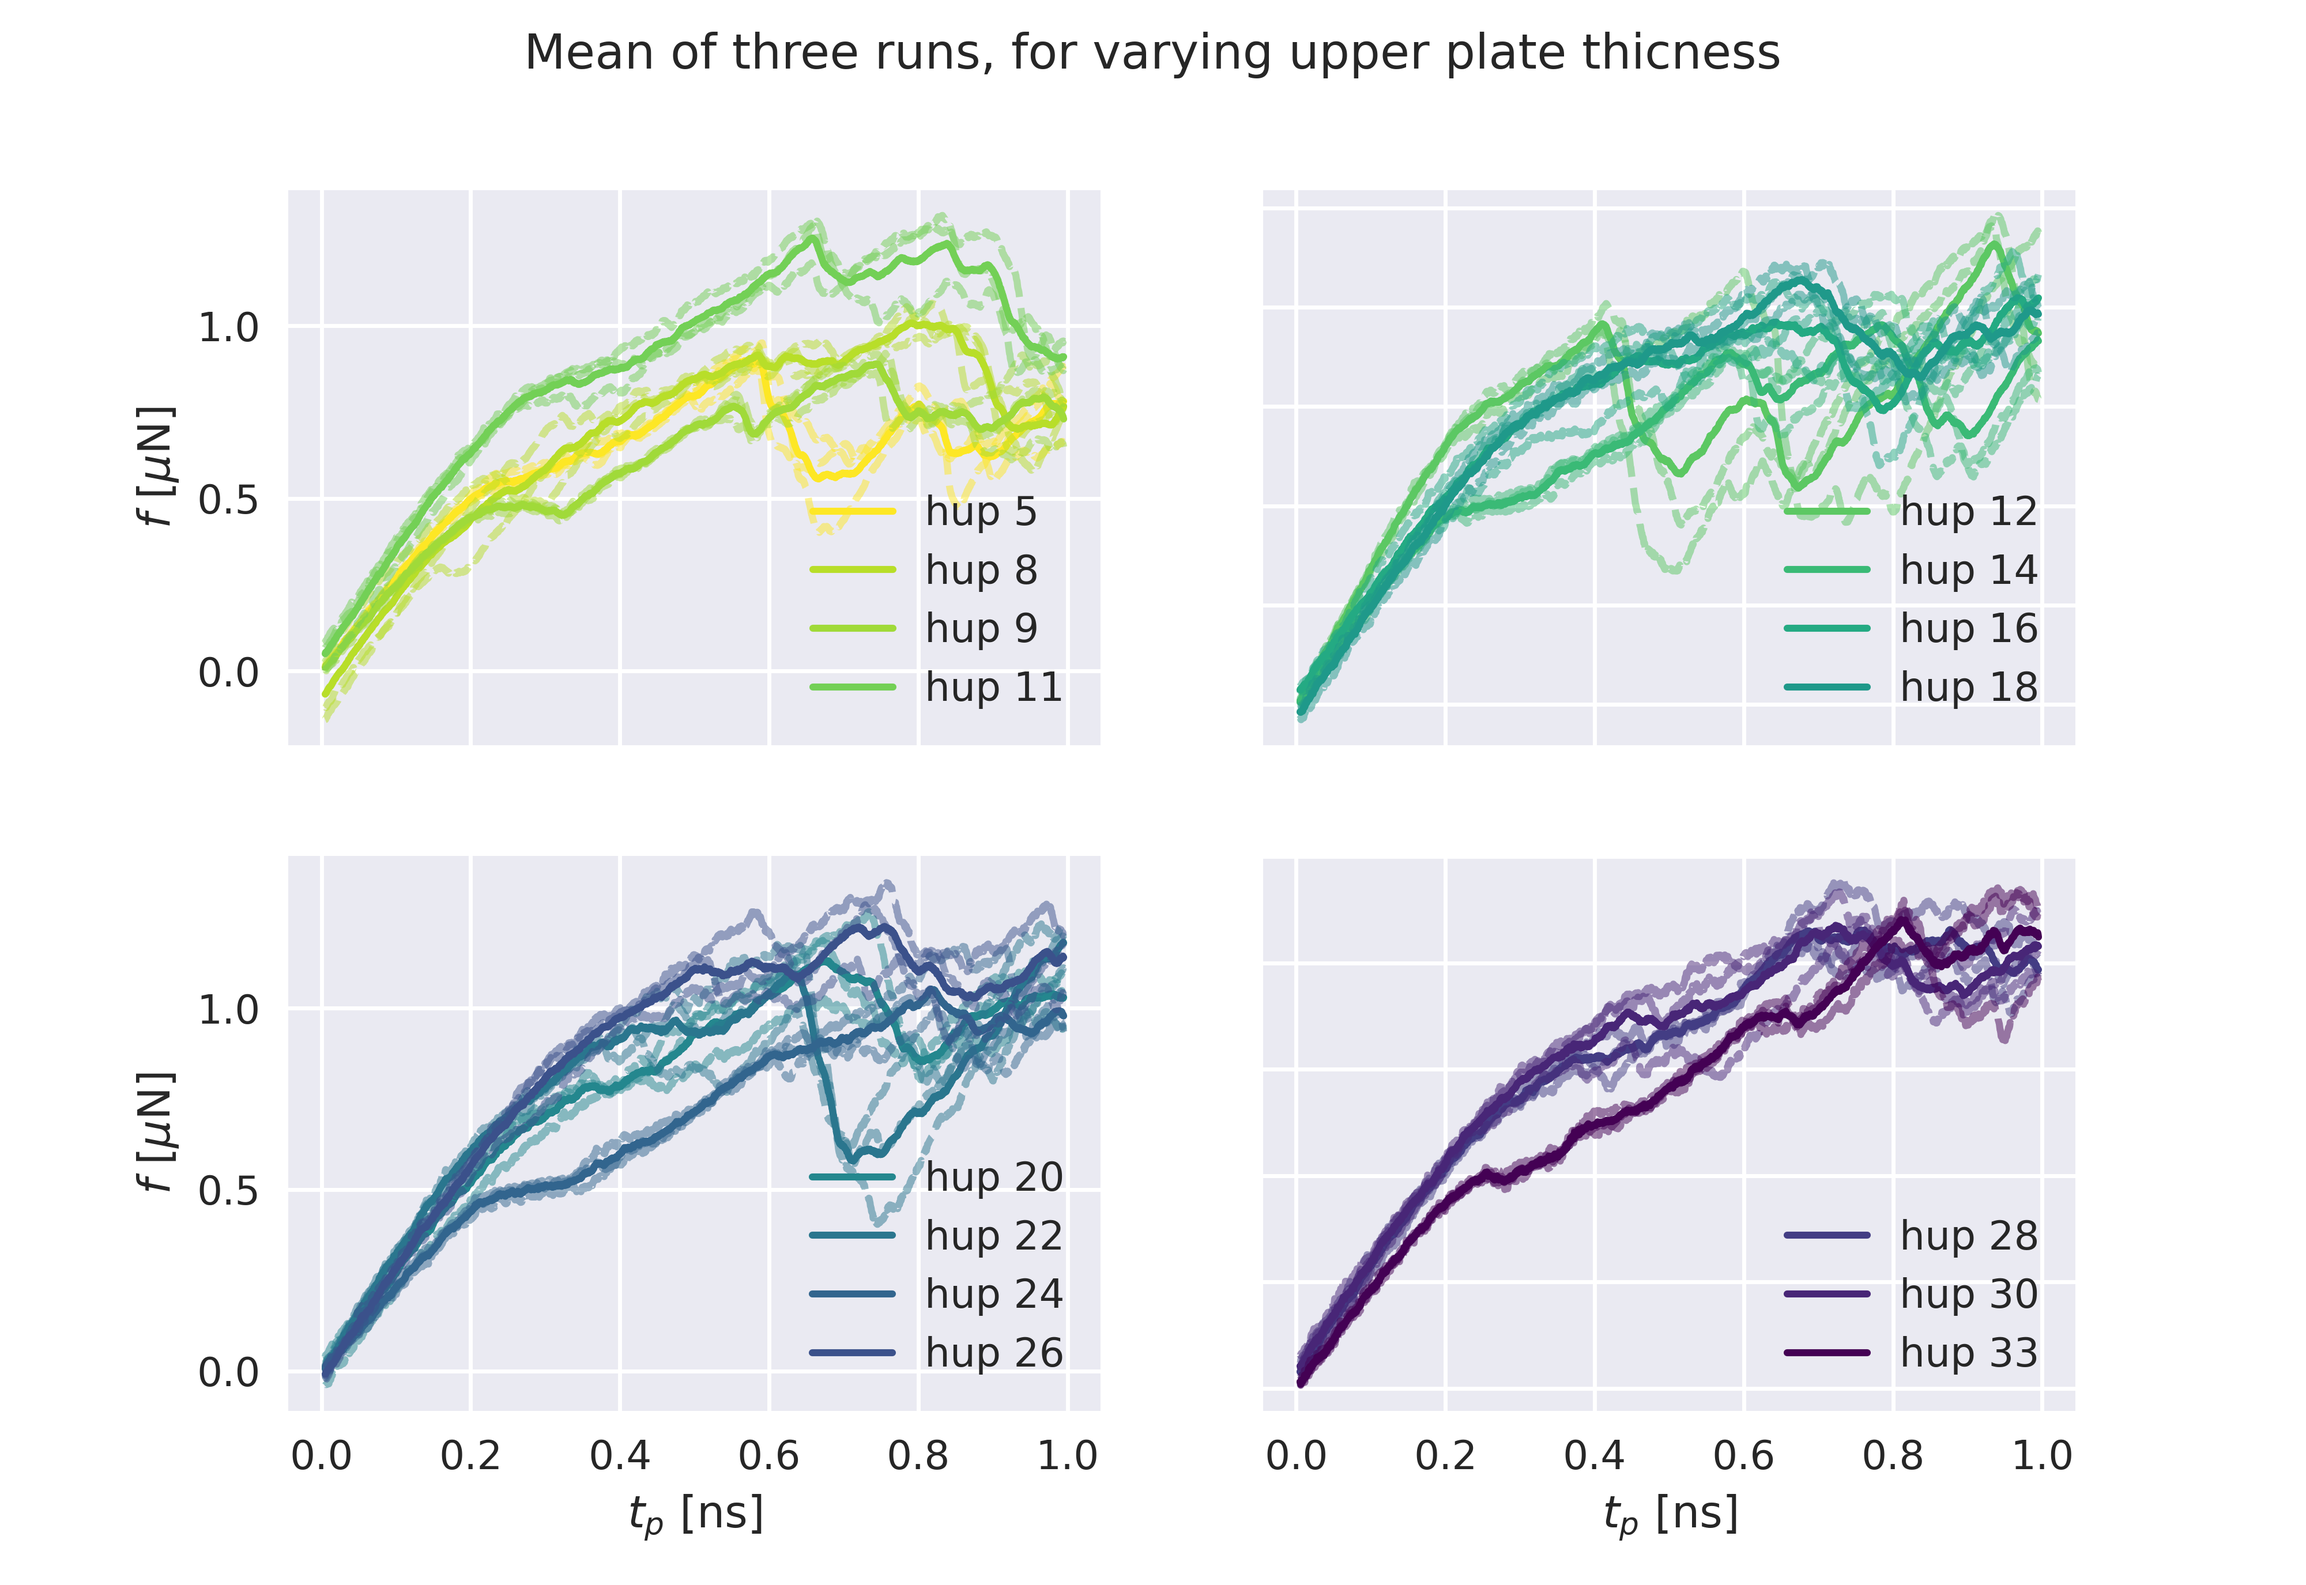
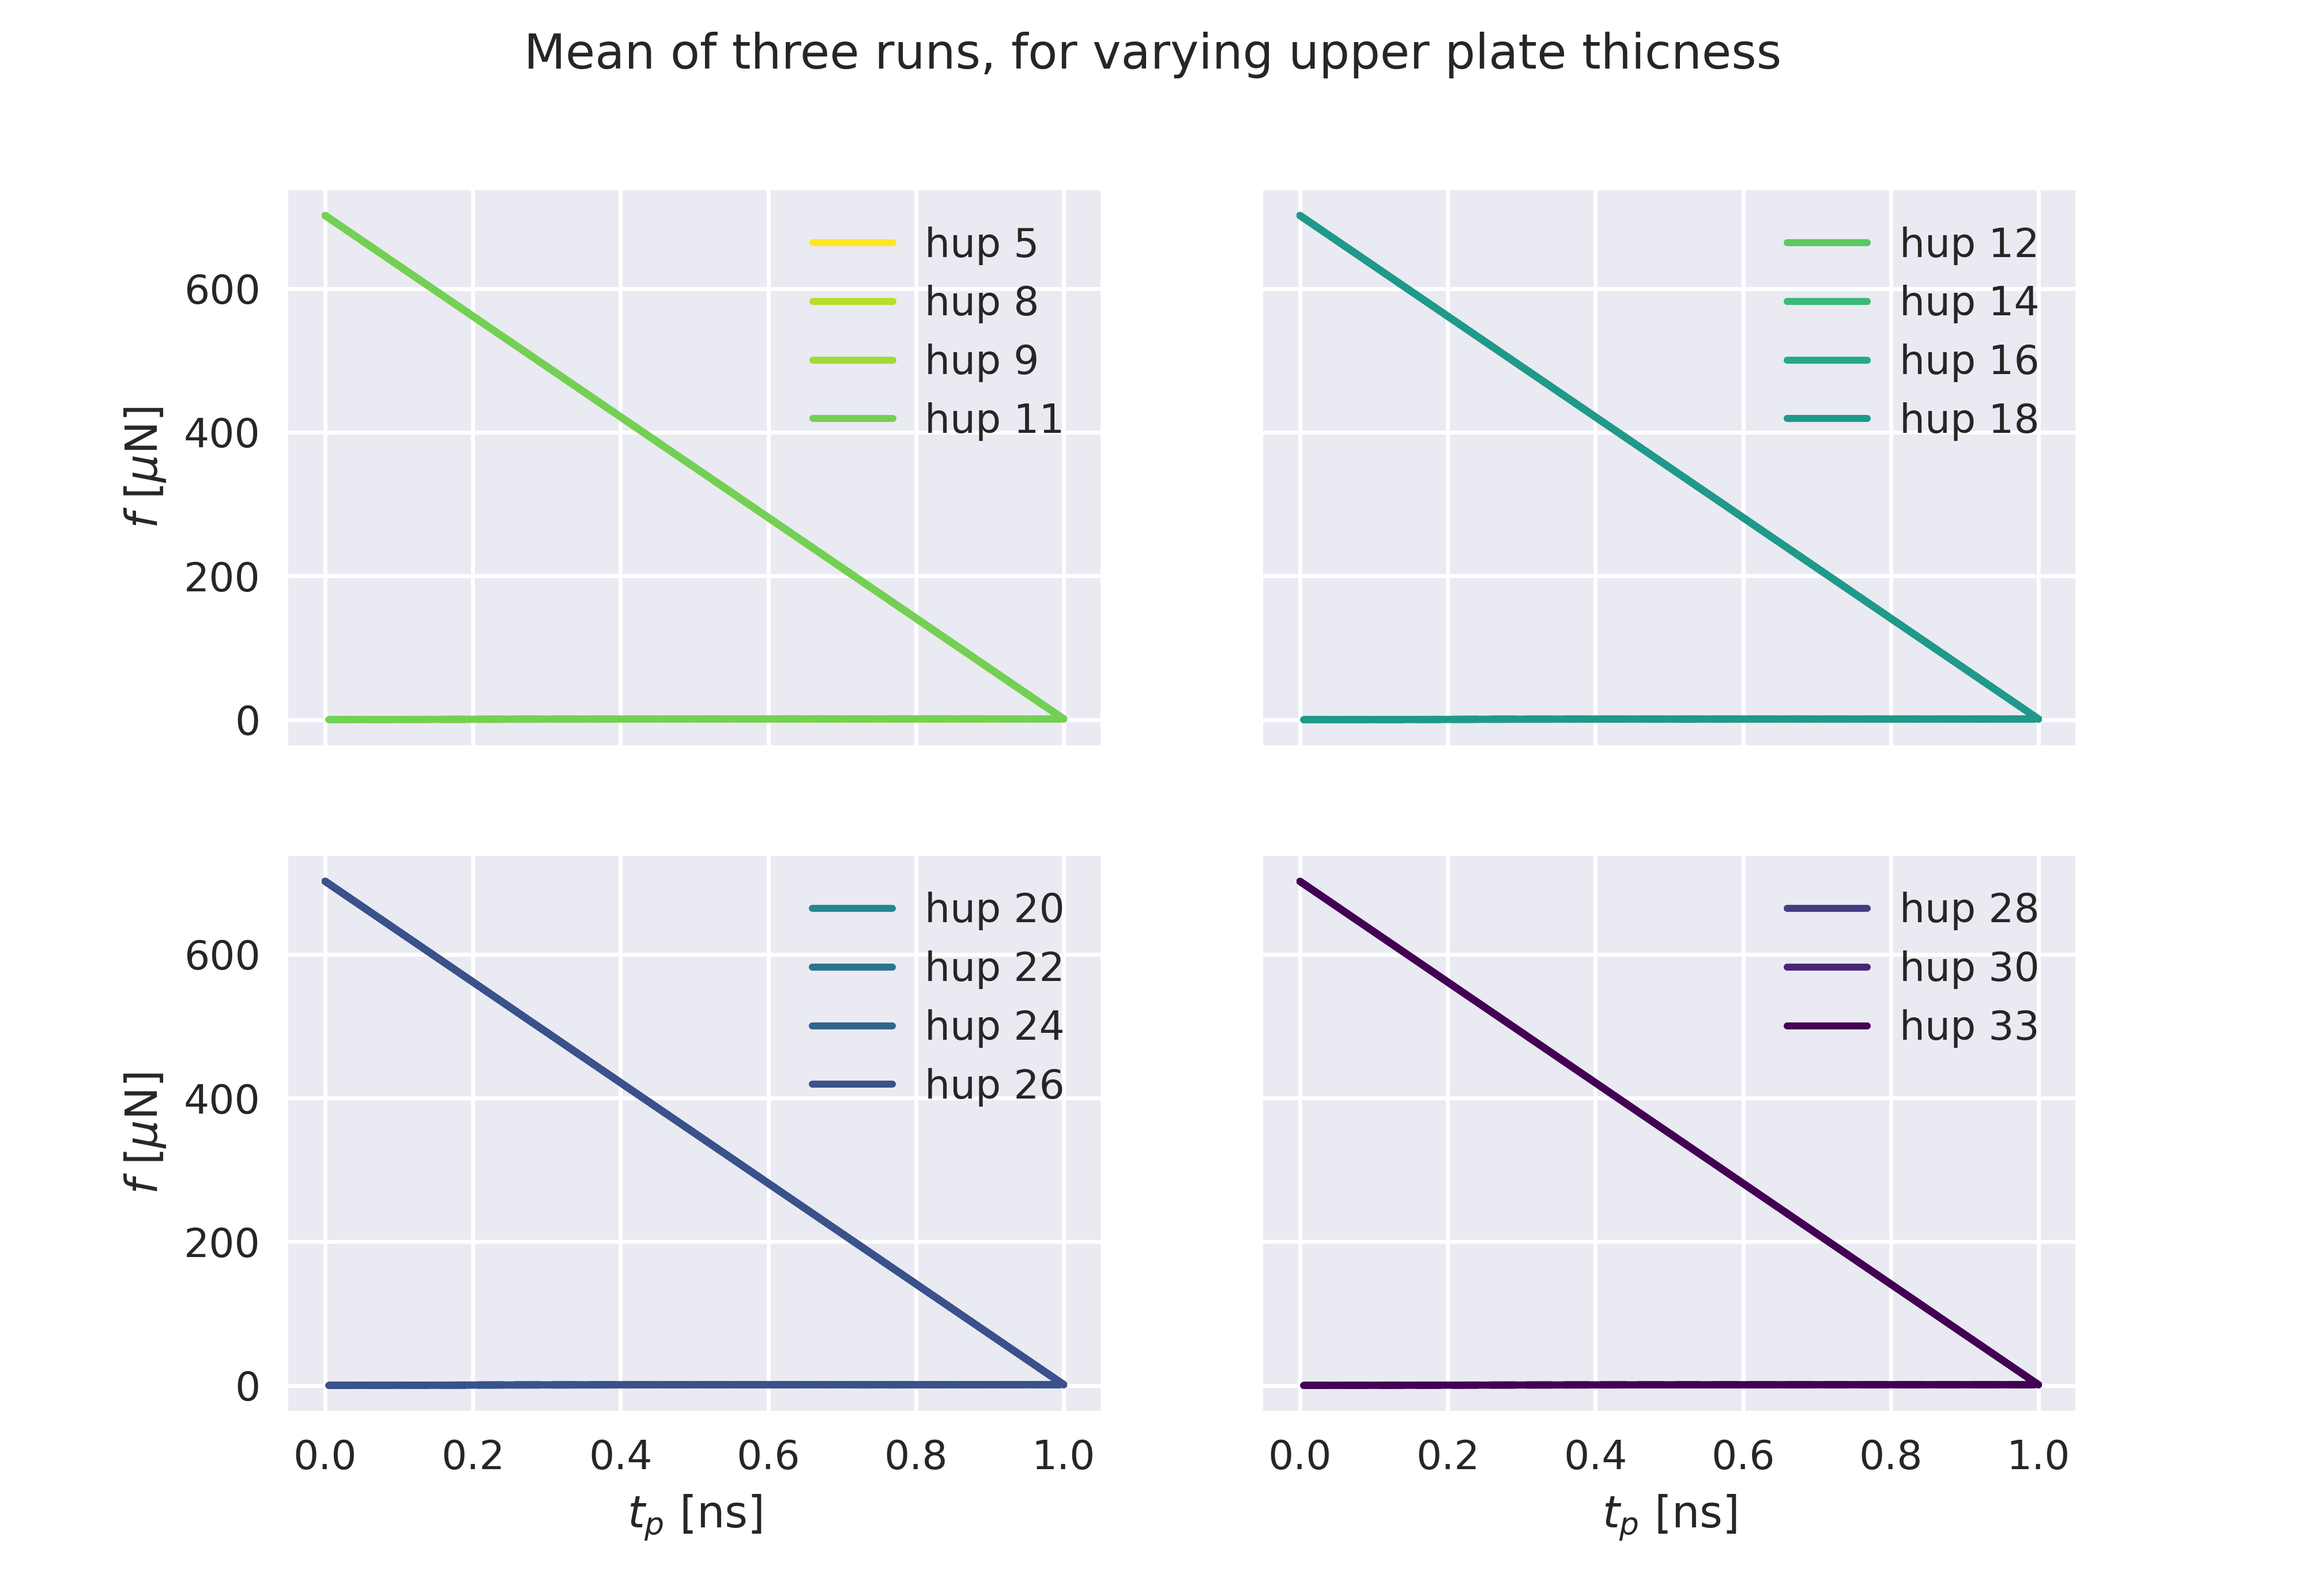
added max static to load curves

diff --git a/python/plot/plot_load_curves.py b/python/plot/plot_load_curves.py
@@ -46,6 +46,23 @@ def load_load_curves(temp, vel, force, orientation, grid, template_lc, template_
     return load_curves_all, load_curves
 
 
+def load_max_static(temp, vel, force, orientation, grid, template_lc, template_ms, seeds):
+    
+    ms_files = template_ms.format(temp, vel, force, orientation, grid[0], grid[1])
+    ms_all = []
+    
+    files = glob(ms_files)
+    # ms files: time [nS] max friction [mN] 
+    assert files != []
+    for file in glob(ms_files):
+        for seed in seeds:
+            if str(seed) in str(file):
+                time, ms = loadtxt(file)
+                ms_all.append((time,ms))
+
+    #mean_static = mean(ms_all, axis = 0)
+    return ms_all#, mean_static
+
 """
 # extract push times
 push_times = []
@@ -68,60 +85,6 @@ def plot_load_curves_as_funciton_of_top_thiccness():
     project_dir = '../../'
     fig_dir = project_dir + 'fig/'
 
-    """ #first run vel 5
-    seeds_5 =  [88753, 12754, 91693] # thicc 80
-    seeds_8 =  [50219, 31693, 19478] # thicc 83
-    seeds_9 =  [81094, 81717, 10840] # thicc 85
-    seeds_11 = [89936, 25987, 82860] # thicc 85
-    seeds_12 = [63620, 46351, 18735] # thicc 90
-    seeds_14 = [62648, 89682, 30607] # thicc 90
-    seeds_16 = [17767, 58195, 19686] # thicc 95
-    seeds_18 = [11084, 50879, 83355] # thicc 93
-    seeds_20 = [81955, 86485, 61282] # thicc 95
-    seeds_22 = [96804, 43682, 88372] # thicc 100
-    seeds_24 = [64771, 82158, 63871] # thicc 100
-    seeds_26 = [95317, 18462, 11729]#thicc 100
-    seeds_28 = [54648,88413,94253] #thicc 103
-    seeds_30 = [92651,19224,85380] #thicc 105
-    seeds_33 = [64798,34149] #thicc 109
-
-    """
-    """
-    # second push run vel 5
-    seeds_5 = [71361,91111,63445] # 80
-    seeds_8 = [12890,62608,29899] # 83
-    seeds_9 = [70529,45585,64900]
-    seeds_11 = [66909,27035,43111] # 85 
-    seeds_12 = [81809,93141,56900] 
-    seeds_14 = [33447,88504,79793] # 90
-    seeds_18 = [75942,21663,49508] # 93
-    seeds_16 = [67321,29830,36667] 
-    seeds_20 = [77113,99307,62931] # 95
-    seeds_22 = [47606,72506,44762] 
-    seeds_24 = [47009,37801,56714] 
-    seeds_26 = [54238,10257,73002] # 100
-    seeds_28 = [71970,74062,60542] # 103
-    seeds_30 = [81636,35286,69718] # 105
-    seeds_33 = [90953,90762,47980] # 109
-    """
-    """
-        #third push run
-    seeds_5 = [76532,67473,86988]
-    seeds_8 = [22135,54054,39337]
-    seeds_9 = [15007,95692,61395]
-    seeds_11 = [31234,92172,49033]
-    seeds_12 = [27448,57576,83094] 
-    seeds_14 = [68672,65867,65400]
-    seeds_16 = [57652,77804,75056]
-    seeds_18 = [37474,72730,76985] 
-    seeds_20 = [16010,24858,24113]
-    seeds_22 = [19590,75450,95072] 
-    seeds_24 = [63988,78860,45476] 
-    seeds_26 = [35593,21768,33674]
-    seeds_28 = [81910,33465] #46388 missing
-    seeds_30 = [23317,44679,86430]
-    seeds_33 = [66411,52069,63812]
-    """
 
     #fourth push, 700 long
     seeds_5 = [97841,88985,79749] #80
@@ -165,9 +128,15 @@ def plot_load_curves_as_funciton_of_top_thiccness():
         for k,seed in enumerate(seeds):
             load_curves_all, load_curves = load_load_curves(temp, vel, force, orientation, 
                                                             grid, template_lc,template_ms, seed)
+    
+            ms_all = load_max_static(temp, vel, force, orientation, grid,
+                                     template_lc, template_ms, seed)
+            
             c = plt.cm.viridis((max_hup - hup[i])/(max_hup - min_hup + 0.01))
             axs[j].plot(load_curves[0,:,0], load_curves[0,:,1], c=c, label = f'hup {hup[i]}' )
             for l in range(len(seed)):
+                # ms_all contains tuples (time, ms) 
+                axs[j].plot(ms_all[l], c=c)
                 axs[j].plot(load_curves_all[l,:,0], load_curves_all[l,:,1], '--', alpha = 0.5, c=c)
             axs[j].legend()
             i += 1
@@ -308,4 +277,60 @@ if __name__ == '__main__':
     seeds_28 = [47223,86471,56804]
     seeds_30 = [55262,76203,84098]
     seeds_33 = [39463,84117,53537]
+    """
+
+
+    """ #first run vel 5
+    seeds_5 =  [88753, 12754, 91693] # thicc 80
+    seeds_8 =  [50219, 31693, 19478] # thicc 83
+    seeds_9 =  [81094, 81717, 10840] # thicc 85
+    seeds_11 = [89936, 25987, 82860] # thicc 85
+    seeds_12 = [63620, 46351, 18735] # thicc 90
+    seeds_14 = [62648, 89682, 30607] # thicc 90
+    seeds_16 = [17767, 58195, 19686] # thicc 95
+    seeds_18 = [11084, 50879, 83355] # thicc 93
+    seeds_20 = [81955, 86485, 61282] # thicc 95
+    seeds_22 = [96804, 43682, 88372] # thicc 100
+    seeds_24 = [64771, 82158, 63871] # thicc 100
+    seeds_26 = [95317, 18462, 11729]#thicc 100
+    seeds_28 = [54648,88413,94253] #thicc 103
+    seeds_30 = [92651,19224,85380] #thicc 105
+    seeds_33 = [64798,34149] #thicc 109
+
+    """
+    """
+    # second push run vel 5
+    seeds_5 = [71361,91111,63445] # 80
+    seeds_8 = [12890,62608,29899] # 83
+    seeds_9 = [70529,45585,64900]
+    seeds_11 = [66909,27035,43111] # 85 
+    seeds_12 = [81809,93141,56900] 
+    seeds_14 = [33447,88504,79793] # 90
+    seeds_18 = [75942,21663,49508] # 93
+    seeds_16 = [67321,29830,36667] 
+    seeds_20 = [77113,99307,62931] # 95
+    seeds_22 = [47606,72506,44762] 
+    seeds_24 = [47009,37801,56714] 
+    seeds_26 = [54238,10257,73002] # 100
+    seeds_28 = [71970,74062,60542] # 103
+    seeds_30 = [81636,35286,69718] # 105
+    seeds_33 = [90953,90762,47980] # 109
+    """
+    """
+        #third push run
+    seeds_5 = [76532,67473,86988]
+    seeds_8 = [22135,54054,39337]
+    seeds_9 = [15007,95692,61395]
+    seeds_11 = [31234,92172,49033]
+    seeds_12 = [27448,57576,83094] 
+    seeds_14 = [68672,65867,65400]
+    seeds_16 = [57652,77804,75056]
+    seeds_18 = [37474,72730,76985] 
+    seeds_20 = [16010,24858,24113]
+    seeds_22 = [19590,75450,95072] 
+    seeds_24 = [63988,78860,45476] 
+    seeds_26 = [35593,21768,33674]
+    seeds_28 = [81910,33465] #46388 missing
+    seeds_30 = [23317,44679,86430]
+    seeds_33 = [66411,52069,63812]
     """
